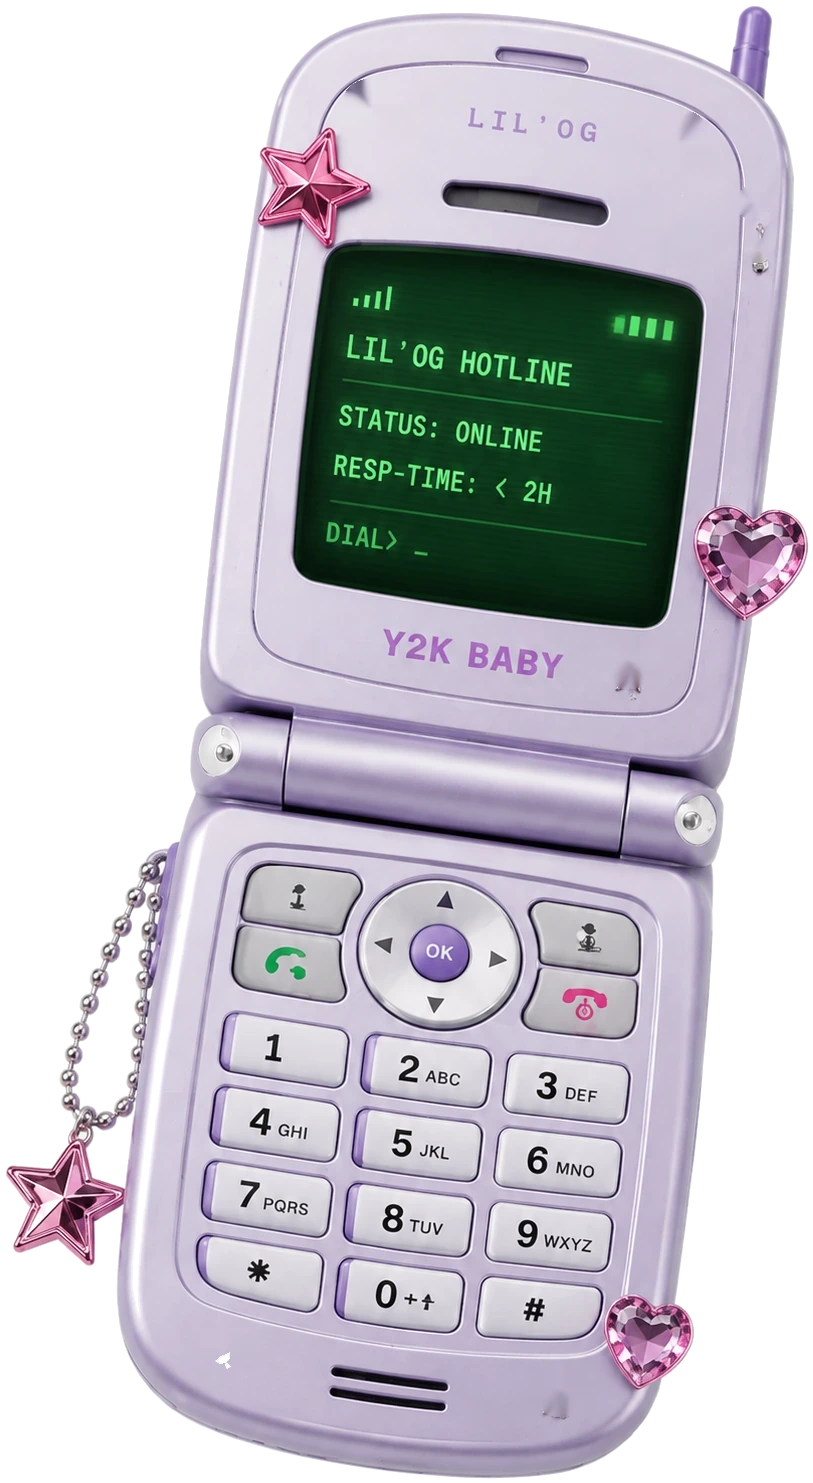
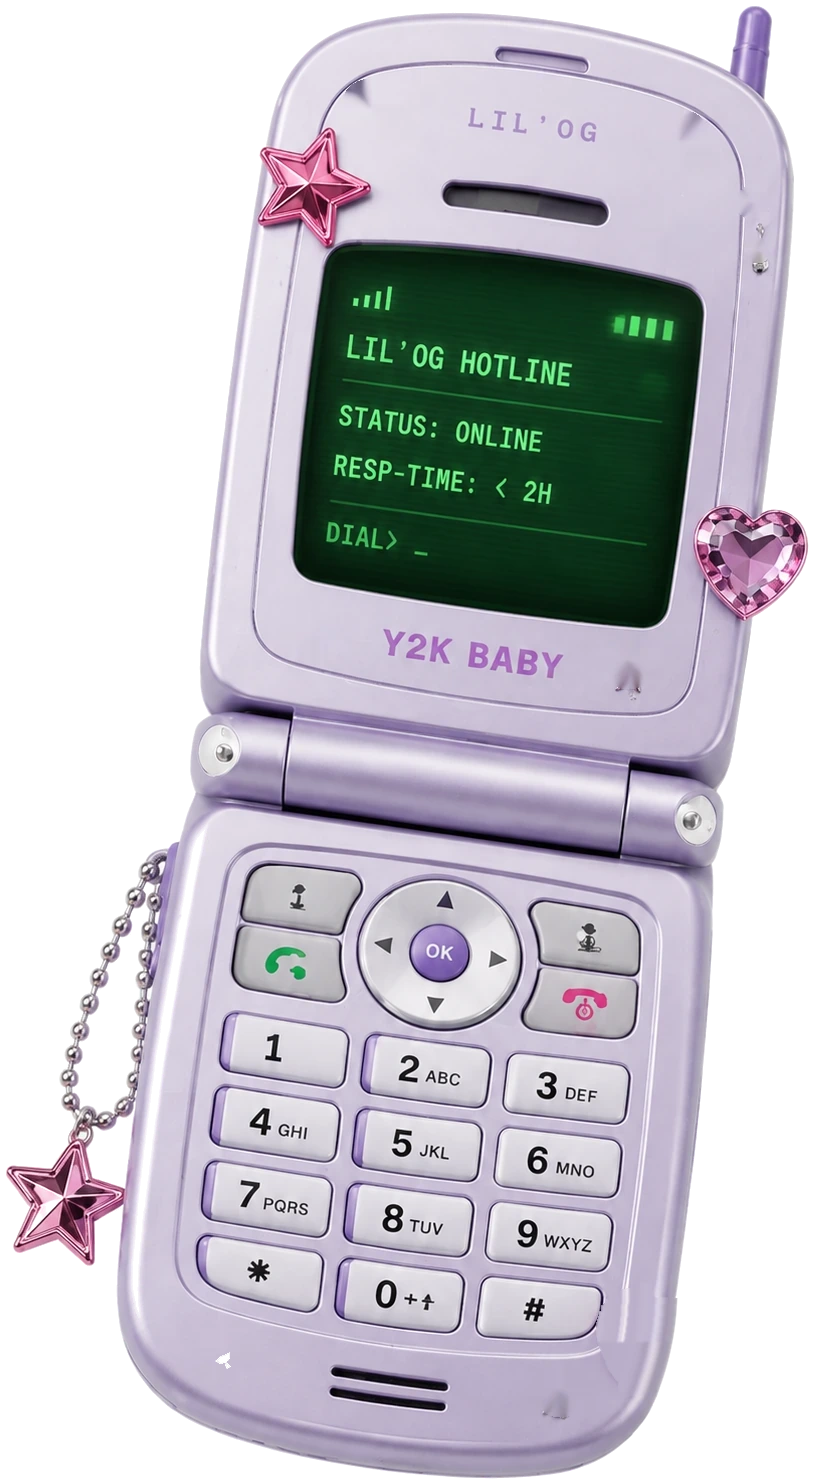
fix(contact): ombre non rognée, bijoux entiers, raccourcis en bande
1. Ombre — le clip-path qui découpe le clapet le long de la charnière
   portait sur la moitié ENTIÈRE, donc rognait aussi l'ombre portée :
   le dégradé se coupait net au bord de la boîte. La découpe ne porte
   plus que sur le visuel (image + reflet) ; l'ombre est passée sur un
   .y2kp-plate non découpé, qui prend pour source l'image déjà
   découpée — elle épouse la silhouette et s'étend librement.

2. Bijoux entiers — même cause : les stickers, posés dans la moitié
   découpée, étaient coupés dès qu'ils dépassaient de la boîte, ce qui
   est leur cas par nature. Ils sortent du .y2kp-plate.

3. Doublon de cœurs — le cœur du coin bas-droit est retiré du visuel
   au lieu d'être recouvert, et remplacé par une grappe d'étoiles
   chromées (celles des disquettes). Comme il débordait, il a fallu
   reconstruire la silhouette : un inpainting de l'alpha produisait un
   renflement, on relève donc la courbe du flanc sur les lignes saines
   de part et d'autre et on l'interpole au travers. La matière est
   recousue en transportant les lignes saines le long du bord, sinon
   le liseré brillant du chant se trouvait étalé.

4. Raccourcis — sortis de la colonne du clapet, ils forment leur
   propre bande pleine largeur entre le formulaire et les disquettes :
   trois pastilles nettement plus grandes, à colonnes égales, centrées
   et alignées, en ligne à toutes les tailles d'écran.

5. Le clapet occupe maintenant toute la hauteur du formulaire, la
[…]

Changed region(s): [[0.738, 0.8685, 0.861, 0.9616]]

diff --git a/src/components/contact/Y2KPhone.tsx b/src/components/contact/Y2KPhone.tsx
@@ -28,7 +28,7 @@
 
 import { useCallback, useEffect, useRef, useState } from "react";
 
-import { GemSticker } from "@/components/contact/stickers";
+import { ChromeStar, GemSticker } from "@/components/contact/stickers";
 
 /* ------------------------------------------------------------
    Constantes de calage (en % de la boîte image 813 × 1483)
@@ -58,42 +58,54 @@ const MAX_LEN = 18;
    ------------------------------------------------------------
    Le visuel de référence portait des strass photoréalistes qui
    juraient avec la DA du site. Les petits (ronds facettés, étoiles
-   métalliques) ont été gommés dans l'asset lui-même ; les quatre
-   grosses gemmes roses, elles, débordent de la silhouette — les
-   effacer obligerait à reconstruire le bord du téléphone. On pose
-   donc par-dessus le sticker vectoriel de même forme, calibré pour
-   les recouvrir entièrement (~1,3× leur emprise). Ce sont les
-   mêmes pastilles que les disquettes d'INFOS_PRATIQUES.
+   métalliques) ont été gommés dans l'asset lui-même, tout comme le
+   cœur du coin bas-droit — voir scripts/phone-degem.py.
+
+   Les trois grosses gemmes roses restantes débordent de la
+   silhouette : les effacer obligerait à reconstruire le bord du
+   téléphone à chaque fois. On pose donc par-dessus le sticker
+   vectoriel de même forme, calibré pour les recouvrir entièrement
+   (~1,3× leur emprise). Ce sont les mêmes pastilles que les
+   disquettes d'INFOS_PRATIQUES, d'où le module partagé.
 
    Emprises relevées sur le visuel 813 × 1483 :
-     étoile capot   x258-371  y128-247
-     cœur capot     x694-808  y511-620
-     étoile breloque x7-126   y1133-1265
-     cœur base      x604-692  y1295-1389
+     étoile capot    x258-371  y128-247
+     cœur capot      x694-808  y511-620
+     étoile breloque x7-126    y1133-1265
    ------------------------------------------------------------ */
 
 const PINK_STAR: [string, string, string] = ["#FFB3D6", "#F0509A", "#B7175C"];
 const PINK_HEART: [string, string, string] = ["#FFC0DF", "#EE4B96", "#B3155A"];
 
-type Gem = {
+type Placement = {
   id: string;
   half: "lid" | "base";
-  shape: "star" | "heart";
-  hue: [string, string, string];
   left: number;
   top: number;
   width: number;
   rot: number;
 };
 
+type Gem = Placement &
+  (
+    | { kind: "gem"; shape: "star" | "heart"; hue: [string, string, string] }
+    /* Étoile chromée : celle des disquettes. Elle ne recouvre aucune gemme —
+       le cœur qui occupait le coin bas-droit a été retiré du visuel. */
+    | { kind: "chrome" }
+  );
+
 /* Les rotations ne sont pas estimées à l'œil mais relevées sur le visuel :
    angle des cinq pointes de chaque étoile photographiée, ramené modulo 72°
    (l'étoile SVG de référence pointe vers le haut). */
 const GEMS: Gem[] = [
-  { id: "star-lid", half: "lid", shape: "star", hue: PINK_STAR, left: 27.4, top: 7.0, width: 22.5, rot: 20.5 },
-  { id: "heart-lid", half: "lid", shape: "heart", hue: PINK_HEART, left: 82.6, top: 32.6, width: 19.6, rot: 10 },
-  { id: "star-charm", half: "base", shape: "star", hue: PINK_STAR, left: -4.0, top: 74.75, width: 24.5, rot: 11.5 },
-  { id: "heart-base", half: "base", shape: "heart", hue: PINK_HEART, left: 71.4, top: 85.8, width: 16.6, rot: 6 },
+  { id: "star-lid", half: "lid", kind: "gem", shape: "star", hue: PINK_STAR, left: 27.4, top: 7.0, width: 22.5, rot: 20.5 },
+  { id: "heart-lid", half: "lid", kind: "gem", shape: "heart", hue: PINK_HEART, left: 82.6, top: 32.6, width: 19.6, rot: 10 },
+  { id: "star-charm", half: "base", kind: "gem", shape: "star", hue: PINK_STAR, left: -4.0, top: 74.75, width: 24.5, rot: 11.5 },
+  /* Grappe chromée en bas à droite, à la place du second cœur rose : deux
+     cœurs identiques du même côté faisaient répétition. */
+  { id: "chrome-a", half: "base", kind: "chrome", left: 75.5, top: 86.4, width: 14.0, rot: 8 },
+  { id: "chrome-b", half: "base", kind: "chrome", left: 69.8, top: 91.6, width: 8.6, rot: -16 },
+  { id: "chrome-c", half: "base", kind: "chrome", left: 86.4, top: 90.2, width: 7.8, rot: 22 },
 ];
 
 function Gems({ where }: { where: "lid" | "base" }) {
@@ -111,7 +123,11 @@ function Gems({ where }: { where: "lid" | "base" }) {
             transform: `rotate(${g.rot}deg)`,
           }}
         >
-          <GemSticker uid={`y2kp-${g.id}`} shape={g.shape} hue={g.hue} />
+          {g.kind === "chrome" ? (
+            <ChromeStar uid={`y2kp-${g.id}`} />
+          ) : (
+            <GemSticker uid={`y2kp-${g.id}`} shape={g.shape} hue={g.hue} />
+          )}
         </span>
       ))}
     </>
@@ -352,13 +368,22 @@ const CSS = `
    preserve-3d imbriquée. */
 .y2kp-half,.y2kp-fold{pointer-events:none}
 .y2kp-half{position:absolute;inset:0}
-.y2kp-half img{position:absolute;inset:0;width:100%;height:100%;display:block;
+.y2kp-half img{position:absolute;inset:0;width:100%;height:100%;display:block}
+
+/* La découpe le long de la charnière porte sur le VISUEL (image +
+   reflet), jamais sur la moitié entière : un clip-path rogne aussi
+   l'ombre portée et tout ce qui dépasse. L'ombre est donc posée sur
+   .y2kp-plate, qui n'est pas découpé — il prend pour source l'image
+   déjà découpée, si bien que l'ombre épouse la silhouette tout en
+   pouvant s'étendre librement au-delà. Sans cela, le dégradé se
+   coupait net sur les bords de la boîte. */
+.y2kp-plate{position:absolute;inset:0;
   filter:drop-shadow(0 18px 26px rgba(72,28,128,.26))}
 .y2kp-clip-top{clip-path:polygon(0 0,100% 0,100% 53.48%,0 46.65%)}
 .y2kp-clip-bottom{clip-path:polygon(0 46.65%,100% 53.48%,100% 100%,0 100%)}
 
-/* Bijoux vectoriels — voir STICKERS plus bas. Posés dans la moitié
-   à laquelle ils appartiennent, ils suivent donc le pliage. */
+/* Bijoux vectoriels — voir STICKERS plus bas. Hors du .y2kp-plate,
+   donc jamais rognés : ils débordent de la silhouette par nature. */
 .y2kp-gem{position:absolute;aspect-ratio:1;
   filter:drop-shadow(0 2px 3px rgba(72,28,128,.34))}
 
@@ -702,20 +727,24 @@ export default function Y2KPhone() {
             <div ref={shakeRef} className="y2kp-shake">
               <div className="y2kp-tilt">
                 {/* ---------- Socle : clavier, charnière, breloque ---------- */}
-                <div className="y2kp-half y2kp-clip-bottom">
-                  {/* eslint-disable-next-line @next/next/no-img-element -- visuel décoratif piloté par des transforms 3D ; le wrapper de next/image casserait le pliage du clapet. */}
-                  <img src={ASSET} alt="" width={813} height={1483} draggable={false} />
-                  <span className="y2kp-gloss" aria-hidden />
+                <div className="y2kp-half">
+                  <div className="y2kp-plate">
+                    {/* eslint-disable-next-line @next/next/no-img-element -- visuel décoratif piloté par des transforms 3D ; le wrapper de next/image casserait le pliage du clapet. */}
+                    <img className="y2kp-clip-bottom" src={ASSET} alt="" width={813} height={1483} draggable={false} />
+                    <span className="y2kp-gloss y2kp-clip-bottom" aria-hidden />
+                  </div>
                   <Gems where="base" />
                 </div>
 
                 {/* ---------- Clapet : la moitié haute qui pivote ---------- */}
                 <div className="y2kp-fold">
                   <div className="y2kp-face">
-                    <div className="y2kp-half y2kp-clip-top">
-                      {/* eslint-disable-next-line @next/next/no-img-element -- idem : même visuel, découpé au-dessus de la charnière. */}
-                      <img src={ASSET} alt="" width={813} height={1483} draggable={false} />
-                      <span className="y2kp-gloss" aria-hidden />
+                    <div className="y2kp-half">
+                      <div className="y2kp-plate">
+                        {/* eslint-disable-next-line @next/next/no-img-element -- idem : même visuel, découpé au-dessus de la charnière. */}
+                        <img className="y2kp-clip-top" src={ASSET} alt="" width={813} height={1483} draggable={false} />
+                        <span className="y2kp-gloss y2kp-clip-top" aria-hidden />
+                      </div>
                       <Gems where="lid" />
                     </div>
 

diff --git a/src/app/contact/page.tsx b/src/app/contact/page.tsx
@@ -72,34 +72,52 @@ const SHORTCUTS = [
   },
 ];
 
+/* Le clapet occupe désormais toute la hauteur de la colonne — donc celle
+   du formulaire, puisque c'est lui qui dicte la hauteur de la rangée. Les
+   raccourcis ont leur propre bande, plus bas. */
 function HotlineColumn() {
   return (
-    <div className="flex h-full w-full flex-col items-center">
-      {/* Le clapet absorbe la hauteur restante ; `min-h-0` l'autorise à
-          se réduire sous sa taille naturelle, sans quoi il déborderait. */}
-      <div className="flex w-full min-h-0 flex-1 justify-center">
-        <Y2KPhone />
-      </div>
+    <div className="flex h-full w-full flex-col items-center justify-center">
+      <Y2KPhone />
+    </div>
+  );
+}
 
-      {/* ---- Raccourcis « icônes de bureau » ---- */}
-      <div className="mt-6 grid w-full max-w-[320px] shrink-0 grid-cols-3 gap-3">
+/* ============================================================
+   Bande de raccourcis — pleine largeur, entre le formulaire et
+   les disquettes. Icônes de bureau format « gros bouton ».
+   ============================================================ */
+function Shortcuts() {
+  return (
+    <section
+      aria-label="Raccourcis"
+      className="mt-[clamp(26px,4.5vw,44px)]"
+    >
+      <div className={`${MONO} mb-3 flex items-center gap-2 text-[0.58rem] font-bold tracking-[0.08em] text-[#5b2fb8]`}>
+        <span className="h-px flex-1 bg-[#5b2fb8]/20" />
+        🖱 RACCOURCIS
+        <span className="h-px flex-1 bg-[#5b2fb8]/20" />
+      </div>
+      {/* Grille à colonnes égales : les trois pastilles ont exactement la
+          même largeur et la même hauteur, quel que soit leur libellé. */}
+      <div className="mx-auto grid w-full max-w-[760px] grid-cols-3 gap-[clamp(8px,2vw,20px)]">
         {SHORTCUTS.map(({ icon, label, href, external }) => (
           <a
             key={label}
             href={href}
             {...(external ? { target: "_blank", rel: "noopener noreferrer" } : {})}
-            className={`flex flex-col items-center gap-1.5 rounded-xl border border-[#c6c2d8] bg-[linear-gradient(180deg,#fdfdff_0%,#eeecf6_48%,#d8d5e6_100%)] px-1.5 py-3 text-center no-underline transition ${PLASTIC} ${PLASTIC_PRESS} hover:brightness-105 focus-visible:outline-2 focus-visible:outline-offset-2 focus-visible:outline-[#7147d4]`}
+            className={`flex flex-col items-center justify-center gap-2.5 rounded-2xl border border-[#c6c2d8] bg-[linear-gradient(180deg,#fdfdff_0%,#eeecf6_48%,#d8d5e6_100%)] px-2 py-[clamp(16px,2.6vw,26px)] text-center no-underline transition sm:px-4 ${PLASTIC} ${PLASTIC_PRESS} hover:brightness-105 focus-visible:outline-2 focus-visible:outline-offset-2 focus-visible:outline-[#7147d4]`}
           >
-            <span className="text-[1.5rem] leading-none drop-shadow-[0_2px_2px_rgba(0,0,0,0.25)]">
+            <span className="text-[clamp(1.7rem,4vw,2.6rem)] leading-none drop-shadow-[0_3px_3px_rgba(0,0,0,0.25)]">
               {icon}
             </span>
-            <span className={`${MONO} text-[0.47rem] leading-tight font-bold break-all text-[#262626]`}>
+            <span className={`${MONO} text-[clamp(0.5rem,1.1vw,0.72rem)] leading-tight font-bold break-all tracking-[0.02em] text-[#262626]`}>
               {label}
             </span>
           </a>
         ))}
       </div>
-    </div>
+    </section>
   );
 }
 
@@ -862,8 +880,11 @@ export default function ContactPage() {
               </section>
             </div>
 
+            {/* ============ RACCOURCIS ============ */}
+            <Shortcuts />
+
             {/* ============ DISQUETTES 3.5" ============ */}
-            <div className="mt-[clamp(24px,4vw,40px)]">
+            <div className="mt-[clamp(26px,4.5vw,44px)]">
               <style>{FLOPPY_CSS}</style>
               <div className={`${MONO} mb-3 flex items-center gap-2 text-[0.58rem] font-bold tracking-[0.08em] text-[#5b2fb8]`}>
                 <span className="h-px flex-1 bg-[#5b2fb8]/20" />

diff --git a/scripts/phone-degem.py b/scripts/phone-degem.py
@@ -1,14 +1,25 @@
 """Efface les strass 3D photographiques du visuel téléphone.
 
-Les petits strass (ronds facettés + étoiles métalliques) reposent sur des
-surfaces lisses : un inpainting les fait disparaître sans trace. Les
-quatre grosses gemmes roses, elles, ne sont PAS effacées ici — elles sont
-recouvertes côté composant par un sticker vectoriel de même forme, ce qui
-évite d'avoir à reconstruire la silhouette du téléphone là où elles
-débordent.
+Deux traitements distincts :
 
-S'exécute depuis la racine du repo, sur public/y2k-phone.webp (déjà
-redétouré par rematte.py).
+1. Les petits strass (ronds facettés, étoiles métalliques) reposent en
+   pleine matière sur des surfaces lisses : un simple inpainting les fait
+   disparaître sans trace.
+
+2. Le cœur en bas à droite est supprimé pour de bon — il faisait doublon
+   avec celui du capot, du même côté du téléphone, et sa place revient à
+   une grappe d'étoiles chromées posée côté composant. Comme il déborde
+   de la silhouette, il faut réparer AUSSI l'alpha, donc le bord du
+   boîtier. Et son trou ne doit être rebouché qu'avec de la matière
+   opaque : si on laisse l'inpainting piocher dans le fond transparent
+   (dont le RGB est arbitraire), il en ressort une tache sombre.
+
+Les trois grosses gemmes roses restantes ne sont pas effacées : elles
+débordent elles aussi, et un sticker vectoriel de même forme les
+recouvre côté composant — nettement plus sûr que de reconstruire la
+silhouette à quatre endroits.
+
+S'exécute depuis la racine du repo, après scripts/phone-rematte.py.
 """
 import sys
 
@@ -32,27 +43,97 @@ RHINESTONES = [
     (560, 1390, 27),  # strass carré, base
 ]
 
+REMOVED_GEM = (604, 1295, 692, 1389)  # cœur bas-droite, boîte englobante
+
 im = Image.open(SRC).convert("RGBA")
 arr = np.array(im)
-rgb = arr[:, :, :3]
-alpha = arr[:, :, 3]
+rgb = arr[:, :, :3].copy()
+alpha = arr[:, :, 3].copy()
 
+# ---- 1. Strass en pleine matière ---------------------------------------
 mask = np.zeros(alpha.shape, np.uint8)
 for cx, cy, r in RHINESTONES:
     cv2.circle(mask, (cx, cy), r, 255, -1)
-print("pixels à reconstruire :", int((mask > 0).sum()))
 
-# Inpainting sur BGR (Telea suit bien les dégradés lisses du plastique).
 bgr = cv2.cvtColor(rgb, cv2.COLOR_RGB2BGR)
 fixed = cv2.inpaint(bgr, mask, 12, cv2.INPAINT_TELEA)
-# Second passage léger : lisse les raccords laissés par le premier.
 fixed = cv2.inpaint(fixed, cv2.dilate(mask, np.ones((3, 3), np.uint8)), 6, cv2.INPAINT_NS)
-out_rgb = cv2.cvtColor(fixed, cv2.COLOR_BGR2RGB)
+rgb = np.where((mask > 0)[..., None], cv2.cvtColor(fixed, cv2.COLOR_BGR2RGB), rgb)
+print("strass reconstruits :", int((mask > 0).sum()), "px")
 
-# On ne remplace que l'intérieur des masques, le reste reste intact au pixel près.
-m3 = (mask > 0)[..., None]
-rgb_new = np.where(m3, out_rgb, rgb)
-out = np.dstack([rgb_new, alpha]).astype(np.uint8)
+# ---- 2. Cœur bas-droite : couleur + silhouette --------------------------
+x0, y0, x1, y1 = REMOVED_GEM
+PAD = 46
+box = np.zeros(alpha.shape, bool)
+box[y0 - 12 : y1 + 12, x0 - 12 : x1 + 12] = True
+c = rgb.astype(int)
+# On part de la couleur de la gemme, pas d'un rectangle, puis on dilate
+# pour emporter le liseré, l'anticrénelage et l'ombre de contact.
+heart = box & (c[:, :, 0] > 110) & (c[:, :, 0] - c[:, :, 1] > 30) & (alpha > 60)
+# Le creux central de la gemme est presque noir : trop sombre pour le test
+# « rose saturé » ci-dessus, il resterait sinon en mouche sur le boîtier.
+# Fenêtre resserrée sur la gemme seule — la boîte élargie mordrait sur le
+# contour sombre de la touche #, juste à sa gauche.
+core = np.zeros(alpha.shape, bool)
+core[y0 : y1 + 1, x0 + 20 : x1 + 8] = True
+heart |= core & (alpha > 60) & (c.mean(axis=2) < 150)
+heart = cv2.dilate(heart.astype(np.uint8), np.ones((13, 13), np.uint8)) > 0
+print("cœur supprimé :", int(heart.sum()), "px")
+
+# -- 2a. Silhouette : on RECONSTRUIT le bord, on ne le devine pas --------
+# Laisser un inpainting deviner l'alpha produit un renflement là où était
+# la gemme. Le flanc droit du boîtier est une courbe lisse : on relève sa
+# position sur les lignes saines de part et d'autre du trou, on interpole
+# au travers, et on repose une arête franche.
+rows = np.arange(alpha.shape[0])
+hrows = np.nonzero(heart.any(axis=1))[0]
+ry0, ry1 = int(hrows.min()), int(hrows.max())
+
+
+def right_edge(y: int) -> float:
+    xs = np.nonzero(alpha[y] > 128)[0]
+    return float(xs.max()) if xs.size else np.nan
+
+
+clean = [y for y in range(ry0 - 90, ry1 + 90) if not (ry0 - 2 <= y <= ry1 + 2)]
+clean = [y for y in clean if 0 <= y < alpha.shape[0] and not np.isnan(right_edge(y))]
+ys = np.array(clean, float)
+xs_edge = np.array([right_edge(int(y)) for y in clean], float)
+from scipy.interpolate import PchipInterpolator  # noqa: E402
+
+edge_of = PchipInterpolator(ys, xs_edge, extrapolate=True)
+
+for y in range(ry0, ry1 + 1):
+    e = float(edge_of(y))
+    row = heart[y]
+    if not row.any():
+        continue
+    xi = np.nonzero(row)[0]
+    # arête anticrénelée sur ~1,4 px
+    prof = np.clip((e - np.arange(alpha.shape[1])) / 1.4 + 0.5, 0, 1) * 255
+    alpha[y, xi] = prof[xi].astype(np.uint8)
+
+# -- 2b. Matière : on transporte les lignes saines le long du bord -------
+# Un remplissage horizontal étalerait le liseré brillant qui court le long
+# du chant. On recopie donc, pour chaque ligne trouée, la ligne saine la
+# plus proche, décalée de l'écart entre les deux bords : la structure du
+# chant (ombre, arête, reflet) se prolonge naturellement.
+src_above, src_below = ry0 - 3, ry1 + 3
+for y in range(ry0, ry1 + 1):
+    xi = np.nonzero(heart[y])[0]
+    if not xi.size:
+        continue
+    src = src_above if (y - ry0) < (ry1 - y) else src_below
+    shift = int(round(float(edge_of(y)) - float(edge_of(src))))
+    take = np.clip(xi - shift, 0, rgb.shape[1] - 1)
+    rgb[y, xi] = rgb[src, take]
+
+# Léger lissage de la zone recousue, pour effacer les micro-marches.
+sy, sx = slice(ry0 - 6, ry1 + 7), slice(x0 - PAD, x1 + PAD)
+blur = cv2.GaussianBlur(rgb[sy, sx], (0, 0), 1.1)
+rgb[sy, sx] = np.where(heart[sy, sx][..., None], blur, rgb[sy, sx])
+
+out = np.dstack([rgb, alpha]).astype(np.uint8)
 img = Image.fromarray(out, "RGBA")
 
 dest = SRC if "--apply" in sys.argv else (
